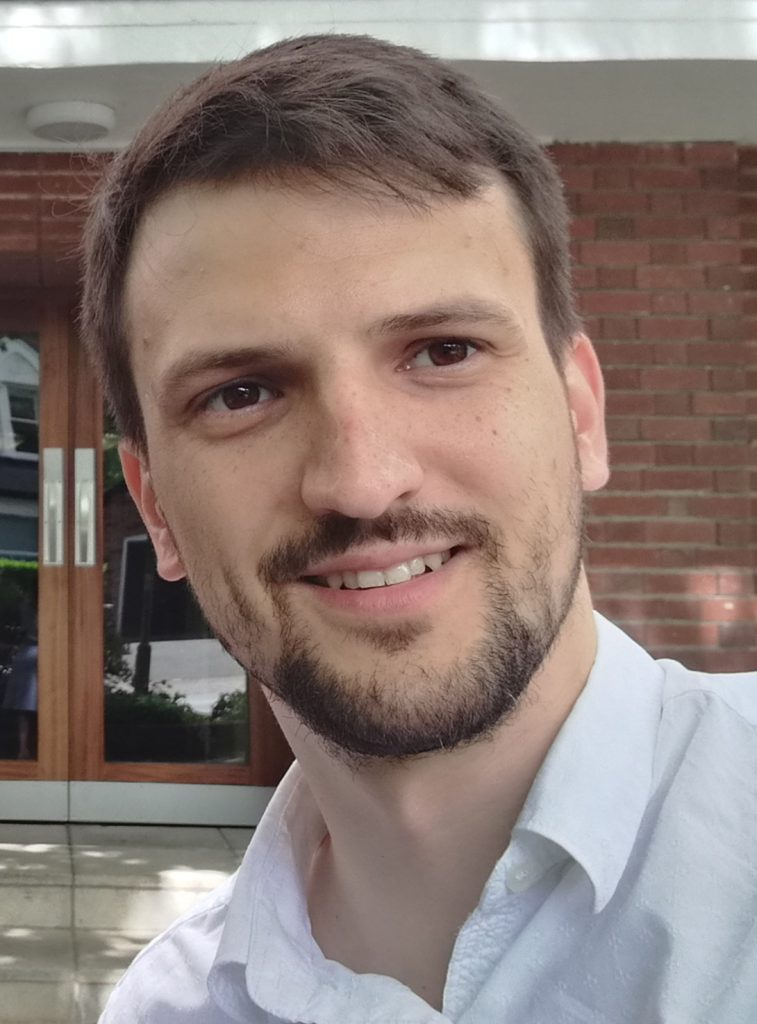
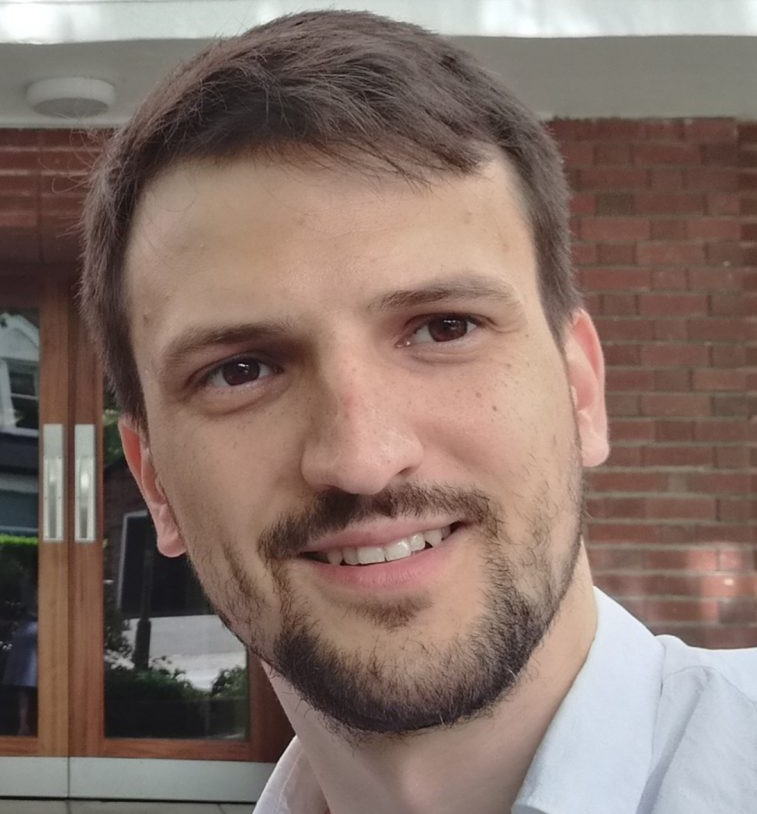
Linked in image dark/light mode added

diff --git a/app/data/data.js b/app/data/data.js
@@ -133,6 +133,7 @@ export const homepageData = {
 
 export const coreTeamData = [
   {
+    id: 1,
     name: "Atanas Kozarev",
     role: "Leading the Community",
     imageUrl: "/assets/people_photos/atanas.jpg",
@@ -141,6 +142,7 @@ export const coreTeamData = [
     linkedin: "https://www.linkedin.com/in/kozarev/",
   },
   {
+    id: 2,
     name: "Nathan Lloyd",
     role: "Leading the Community",
     imageUrl: "/assets/people_photos/nathan.jpg",
@@ -148,6 +150,7 @@ export const coreTeamData = [
     linkedin: "https://www.linkedin.com/in/nathanlloyd7/",
   },
   {
+    id: 3,
     name: "Vincent Hall",
     role: "Co-organiser",
     imageUrl: "/assets/people_photos/vincent.jpg",
@@ -155,6 +158,7 @@ export const coreTeamData = [
     linkedin: "https://www.linkedin.com/in/vincent-hall-consulting/",
   },
   {
+    id: 4,
     name: "Dr Anandhi Vivek Dhukaram",
     role: "Co-organiser",
     imageUrl: "/assets/people_photos/anandhi.jpg",
@@ -162,6 +166,7 @@ export const coreTeamData = [
     linkedin: "https://www.linkedin.com/in/anandhi-vivek-dhukaram/",
   },
   {
+    id: 5,
     name: "Peet Denny",
     role: "Founder",
     imageUrl: "/assets/people_photos/peet.jpg",
@@ -172,31 +177,37 @@ export const coreTeamData = [
 
 export const websiteTeamData = [
   {
+    id: 1,
     name: "David Mason",
     imageUrl: "/assets/people_photos/david.jpg",
     linkedin: "https://www.linkedin.com/in/davidianmason1702/",
   },
   {
+    id: 2,
     name: "Cal Woodford",
     imageUrl: "/assets/people_photos/cal.jpg",
     linkedin: "https://www.linkedin.com/in/callumwoodford/",
   },
   {
+    id: 3,
     name: "Tay Khan",
     imageUrl: "/assets/people_photos/tay.jpg",
     linkedin: "https://www.linkedin.com/in/tay-khan/",
   },
   {
+    id: 4,
     name: "Samantha German",
     imageUrl: "/assets/people_photos/sam.jpg",
     linkedin: "https://www.linkedin.com/in/samantha-german-241265289/",
   },
   {
+    id: 5,
     name: "Alexander Brown",
     imageUrl: "/assets/people_photos/alex.jpg",
     linkedin: "https://www.linkedin.com/in/alexgeoffrey/",
   },
   {
+    id: 6,
     name: "Katarzyna Baginska",
     imageUrl: "/assets/people_photos/kat.jpg",
     linkedin: "https://www.linkedin.com/in/katarzyna-baginska-0baa4a152/",

diff --git a/app/aboutus/page.js b/app/aboutus/page.js
@@ -13,7 +13,7 @@ export default function AboutUs() {
         <h1 className="mt-8 text-2xl md:text-3xl text-center p-4 bg-clip-text text-transparent bg-gradient-to-r from-magenta via-citrus to-aqua">
           Brum AI Team
         </h1>
-        <div className="items-center grid grid-cols-1 md:grid-cols-2 gap-x-4 w-full lg:w-9/12 space-y-4 space-x-4">
+        <div className="items-center grid grid-cols-1 md:grid-cols-2 gap-x-4 w-full lg:w-9/12 space-y-4 ">
           {coreTeamData.map((coreTeam) => {
             return <AboutUsMap key={coreTeam.id} data={coreTeam} />;
           })}
@@ -23,7 +23,7 @@ export default function AboutUs() {
         <h1 className="mt-8 text-2xl md:text-3xl text-center p-4 bg-clip-text text-transparent bg-gradient-to-r from-magenta via-citrus to-aqua">
           Website Team
         </h1>
-        <div className="items-center grid grid-cols-1 md:grid-cols-3 gap-x-4 w-full lg:w-9/12 space-y-4 space-x-4">
+        <div className="items-center grid grid-cols-1 md:grid-cols-3 gap-x-4 w-full lg:w-9/12 space-y-4">
           {websiteTeamData.map((websiteTeam) => {
             return <AboutUsMap key={websiteTeam.id} data={websiteTeam} />;
           })}

diff --git a/app/aboutus/Aboutus.js b/app/aboutus/Aboutus.js
@@ -1,15 +1,16 @@
 import Image from "next/image";
+import LinkedInImage from "./LinkedInImage";
 
 export default function AboutUsMap({ data }) {
   return (
     <section className="grid grid-cols-3 p-4">
-      <div className="col-span-1">
+      <div className="col-span-1 flex justify-center items-center ">
         <Image
           src={data.imageUrl}
           alt={`Profile photo of ${data.name}`}
           width={150}
           height={150}
-          className="rounded-full aspect-square"
+          className="rounded-full aspect-auto aspect-[100/99]"
         />
       </div>
       <div className="col-span-2 px-4">
@@ -22,12 +23,7 @@ export default function AboutUsMap({ data }) {
           rel="noopener noreferrer"
           className=""
         >
-          <Image
-            src={"/assets/linkedin_icon_white.svg"}
-            width={32}
-            height={32}
-            alt={"linkedin logo"}
-          />
+          <LinkedInImage />
         </a>
       </div>
     </section>

diff --git a/app/aboutus/LinkedInImage.js b/app/aboutus/LinkedInImage.js
@@ -1,0 +1,31 @@
+"use client"
+
+import { useTheme } from "next-themes";
+import Image from "next/image";
+
+
+export default function LinkedInImage () {
+    const { resolvedTheme } = useTheme();
+
+    let src;
+    switch (resolvedTheme) {
+      case "light":
+        src = "/assets/linkedin_icon_black.svg";
+        break;
+      case "dark":
+        src = "/assets/linkedin_icon_white.svg";
+        break;
+      default:
+        src = "/assets/linkedin_icon_black.svg";
+        break;
+    };
+
+    return(
+        <Image
+        src={src}
+        width={32}
+        height={32}
+        alt={"linkedin logo"}
+      />
+    )
+}
